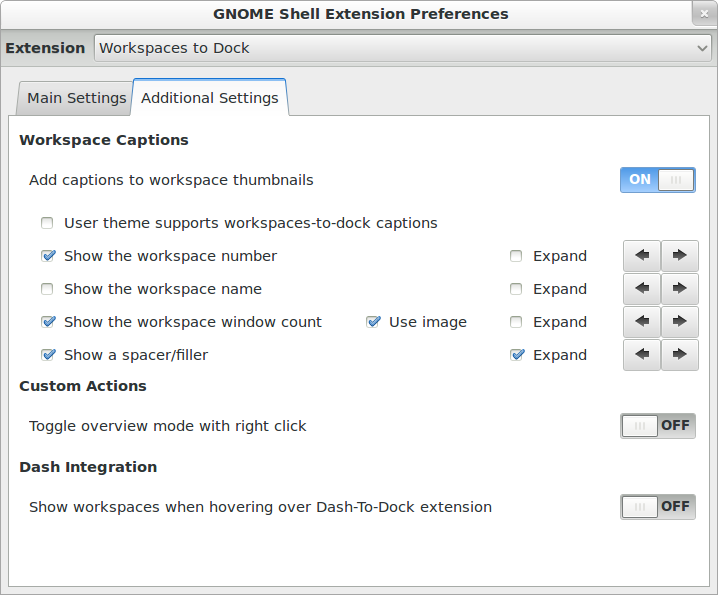
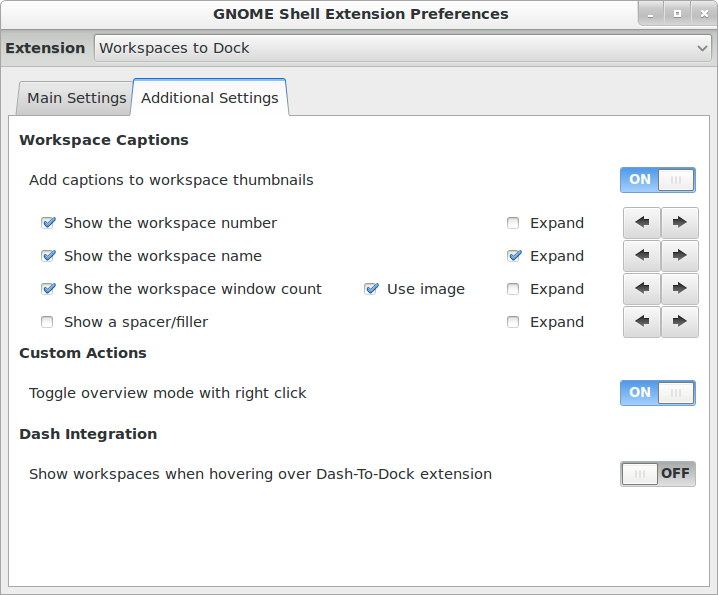
Added detection of theme support; Renamed captions folder to themes; Remove manual selection for theme support.

diff --git a/dockedWorkspaces.js b/dockedWorkspaces.js
@@ -250,7 +250,7 @@ dockedWorkspaces.prototype = {
         // Now that the dock is on the stage and custom themes are loaded
         // retrieve background color and set background opacity and load workspace caption css
         this._updateBackgroundOpacity();
-        this._onThemeSupportChanged();
+        this._loadWorkspacesToDockStylesheet();
 
         // Not really required because thumbnailsBox width signal will trigger a redisplay
         // Also found GS3.6 crashes returning from lock screen (Ubuntu GS Remix)
@@ -488,11 +488,6 @@ dockedWorkspaces.prototype = {
             this._thumbnailsBox.hide();
             this._thumbnailsBox.show();
         }));
-        
-        this._settings.connect('changed::workspace-captions-support', Lang.bind(this, function() {
-            this._onThemeSupportChanged();
-        }));
-
     },
 
     // handler for mouse hover events
@@ -833,33 +828,96 @@ dockedWorkspaces.prototype = {
         }
     },
 
-    // handler for workspace captions theme support changes
-    _onThemeSupportChanged: function() {
-        if (_DEBUG_) global.log("dockedWorkspaces: _onThemeSupportChanged");
-        let cssPath = GLib.build_filenamev([Me.path, 'captions', 'default', 'workspace-captions.css']);
-        if (!GLib.file_test(cssPath, GLib.FileTest.EXISTS)) {
+    _loadWorkspacesToDockStylesheet: function() {
+        if (_DEBUG_) global.log("dockedWorkspaces: _loadWorkspacesToDockStylesheet");
+        // Get css stylesheet for current theme
+        // Main._defaultCssStylesheet = GLib.get_home_dir() + '/.themes/' + _themeName + '/gnome-shell/gnome-shell.css';
+        let cssStylesheet = Main._defaultCssStylesheet;
+        if (Main._cssStylesheet != null)
+            cssStylesheet = Main._cssStylesheet;
+
+        // Get theme directory
+        let cssDirectory = GLib.path_get_dirname(cssStylesheet);
+        
+        // Test for workspaces-to-dock stylesheet
+        let workspacesToDockStylesheet = cssDirectory + '/extensions/workspaces-to-dock.css';
+        if (GLib.file_test(workspacesToDockStylesheet, GLib.FileTest.EXISTS)) {
+            if (_DEBUG_) global.log("Theme supports workspaces-to-dock. Unload workspaces-to-dock.css if previously loaded");
+            this._unloadWorkspacesToDockStylesheet();
+        } else {
+            // Load workspaces-to-dock stylesheet from extension /themes
+            let themeSelected = "default";
+            let workspacesToDockExtStylesheet = GLib.build_filenamev([Me.path, 'themes', themeSelected, 'workspaces-to-dock.css']);
+            if (!GLib.file_test(workspacesToDockExtStylesheet, GLib.FileTest.EXISTS)) {
+                return;
+            }
+            if (_DEBUG_) global.log("Theme does not support workspaces-to-dock. Load extension /themes stylesheet");
+            let themeContext = St.ThemeContext.get_for_stage(global.stage);
+            if (themeContext) {
+                let theme = themeContext.get_theme();
+                let customStylesheets = theme.get_custom_stylesheets();
+                // Check if stylesheet already loaded
+                let found = false;
+                for (let i = 0; i < customStylesheets.length; i++) {
+                    if (customStylesheets[i] == workspacesToDockExtStylesheet) {
+                        found = true;
+                        break;
+                    }
+                }
+                if (!found) {
+                    theme.load_stylesheet(workspacesToDockExtStylesheet);
+                }
+            }
+        }
+    },
+    
+    _unloadWorkspacesToDockStylesheet: function() {
+        if (_DEBUG_) global.log("dockedWorkspaces: _unloadWorkspacesToDockStylesheet");
+        let themeSelected = "default";
+        let workspacesToDockExtStylesheet = GLib.build_filenamev([Me.path, 'themes', themeSelected, 'workspaces-to-dock.css']);
+        if (!GLib.file_test(workspacesToDockExtStylesheet, GLib.FileTest.EXISTS)) {
             return;
         }
-
         let themeContext = St.ThemeContext.get_for_stage(global.stage);
-        let currentTheme = themeContext.get_theme();
+        if (themeContext) {
+            let theme = themeContext.get_theme();
+            let customStylesheets = theme.get_custom_stylesheets();
+            // Check if stylesheet already loaded
+            let found = false;
+            for (let i = 0; i < customStylesheets.length; i++) {
+                if (customStylesheets[i] == workspacesToDockExtStylesheet) {
+                    found = true;
+                    break;
+                }
+            }
+            if (found) {
+                // theme.unload_stylesheet(workspacesToDockExtStylesheet);
+                // ISSUE: just trying to unload stylesheet crashes GS36 when returning from lock screen
+                // WORKAROUND:
+                let cssStylesheet = Main._defaultCssStylesheet;
+                if (Main._cssStylesheet != null)
+                    cssStylesheet = Main._cssStylesheet;
 
-        if (this._settings.get_boolean('workspace-captions-support')) {
-            // unload workspace captions css
-            currentTheme.unload_stylesheet(cssPath);
-        } else {
-            // load workspace captions css
-            currentTheme.load_stylesheet(cssPath);
+                let newTheme = new St.Theme ({ application_stylesheet: cssStylesheet });
+                for (let i = 0; i < customStylesheets.length; i++) {
+                    if (customStylesheets[i] != workspacesToDockExtStylesheet) {
+                        newTheme.load_stylesheet(customStylesheets[i]);
+                    }
+                }
+
+                themeContext.set_theme (newTheme);
+            }
         }
-
-        this._thumbnailsBox.hide();
-        this._thumbnailsBox.show();
     },
     
     // handler for theme changes
     _onThemeChanged: function() {
         if (_DEBUG_) global.log("dockedWorkspaces: _onThemeChanged");
         this._updateBackgroundOpacity();
+
+        this._loadWorkspacesToDockStylesheet();
+        this._thumbnailsBox.hide();
+        this._thumbnailsBox.show();
     },
     
     // resdiplay dock called if size-position changed due to dock resizing

diff --git a/prefs.js b/prefs.js
@@ -477,16 +477,6 @@ const WorkspacesToDockPreferencesWidget = new GObject.Class({
             margin_right: 10
         });
 
-        // Workspace Captions - User Theme Support
-        let wsCaptionThemeSupport =  new Gtk.CheckButton({
-            label: "User theme supports workspaces-to-dock captions",
-            hexpand: true
-        });
-        wsCaptionThemeSupport.set_active(this.settings.get_boolean('workspace-captions-support'));
-        wsCaptionThemeSupport.connect('toggled', Lang.bind(this, function(check){
-            this.settings.set_boolean('workspace-captions-support', check.get_active());
-        }));
-
         // Workspace Captions - Number
         let workspaceCaptionNumber = new Gtk.Box({
             spacing: 20,
@@ -690,33 +680,30 @@ const WorkspacesToDockPreferencesWidget = new GObject.Class({
 
         this.settings.bind('workspace-captions', workspaceCaptionsGrid, 'sensitive', Gio.SettingsBindFlags.DEFAULT);
 
-        workspaceCaptionsGrid.attach(wsCaptionThemeSupport, 0, 1, 2, 1);        
-
-        workspaceCaptionsGrid.attach(wsCaptionNumber, 0, 2, 1, 1);
-        workspaceCaptionsGrid.attach(wsCaptionNumberExpand, 2, 2, 1, 1);
-        workspaceCaptionsGrid.attach(wsCaptionNumber_MoveLeftButton, 3, 2, 1, 1);
-        workspaceCaptionsGrid.attach(wsCaptionNumber_MoveRightButton, 4, 2, 1, 1);
+        workspaceCaptionsGrid.attach(wsCaptionNumber, 0, 1, 1, 1);
+        workspaceCaptionsGrid.attach(wsCaptionNumberExpand, 2, 1, 1, 1);
+        workspaceCaptionsGrid.attach(wsCaptionNumber_MoveLeftButton, 3, 1, 1, 1);
+        workspaceCaptionsGrid.attach(wsCaptionNumber_MoveRightButton, 4, 1, 1, 1);
         
-        workspaceCaptionsGrid.attach(wsCaptionName, 0, 3, 1, 1);
-        workspaceCaptionsGrid.attach(wsCaptionNameExpand, 2, 3, 1, 1);
-        workspaceCaptionsGrid.attach(wsCaptionName_MoveLeftButton, 3, 3, 1, 1);
-        workspaceCaptionsGrid.attach(wsCaptionName_MoveRightButton, 4, 3, 1, 1);
+        workspaceCaptionsGrid.attach(wsCaptionName, 0, 2, 1, 1);
+        workspaceCaptionsGrid.attach(wsCaptionNameExpand, 2, 2, 1, 1);
+        workspaceCaptionsGrid.attach(wsCaptionName_MoveLeftButton, 3, 2, 1, 1);
+        workspaceCaptionsGrid.attach(wsCaptionName_MoveRightButton, 4, 2, 1, 1);
         
-        workspaceCaptionsGrid.attach(wsCaptionWindowCount, 0, 4, 1, 1);
-        workspaceCaptionsGrid.attach(wsCaptionWindowCountUseImage, 1, 4, 1, 1);
-        workspaceCaptionsGrid.attach(wsCaptionWindowCountExpand, 2, 4, 1, 1);
-        workspaceCaptionsGrid.attach(wsCaptionWindowCount_MoveLeftButton, 3, 4, 1, 1);
-        workspaceCaptionsGrid.attach(wsCaptionWindowCount_MoveRightButton, 4, 4, 1, 1);
+        workspaceCaptionsGrid.attach(wsCaptionWindowCount, 0, 3, 1, 1);
+        workspaceCaptionsGrid.attach(wsCaptionWindowCountUseImage, 1, 3, 1, 1);
+        workspaceCaptionsGrid.attach(wsCaptionWindowCountExpand, 2, 3, 1, 1);
+        workspaceCaptionsGrid.attach(wsCaptionWindowCount_MoveLeftButton, 3, 3, 1, 1);
+        workspaceCaptionsGrid.attach(wsCaptionWindowCount_MoveRightButton, 4, 3, 1, 1);
         
-        workspaceCaptionsGrid.attach(wsCaptionSpacer, 0, 5, 1, 1);
-        workspaceCaptionsGrid.attach(wsCaptionSpacerExpand, 2, 5, 1, 1);
-        workspaceCaptionsGrid.attach(wsCaptionSpacer_MoveLeftButton, 3, 5, 1, 1);
-        workspaceCaptionsGrid.attach(wsCaptionSpacer_MoveRightButton, 4, 5, 1, 1);
+        workspaceCaptionsGrid.attach(wsCaptionSpacer, 0, 4, 1, 1);
+        workspaceCaptionsGrid.attach(wsCaptionSpacerExpand, 2, 4, 1, 1);
+        workspaceCaptionsGrid.attach(wsCaptionSpacer_MoveLeftButton, 3, 4, 1, 1);
+        workspaceCaptionsGrid.attach(wsCaptionSpacer_MoveRightButton, 4, 4, 1, 1);
 
         
         workspaceCaptions.add(workspaceCaptionsTitle);
         workspaceCaptions.add(workspaceCaptionsControl);
-        workspaceCaptions.add(wsCaptionThemeSupport);
         workspaceCaptions.add(workspaceCaptionsGrid);
         notebookAdditionalSettings.add(workspaceCaptions);
         

diff --git a/README.md b/README.md
@@ -70,9 +70,7 @@ Additional Settings:
 
 	**Add captions to workspace thumbnails** - Adds captions to the workspace thumbnails.
 
-	**User theme supports workspaces-to-dock captions** - When enabled, user themes that support workspaces-to-dock captions will be used to style the captions.
-
-	**NOTE: Unfortunately, there is no built-in detection for when a theme supports workspaces-to-dock captions. Therefore, if this option is enabled, the default style will be disabled. We hope to provide auto-detection in a future release.**
+	**NOTE: Version 9 auto detects when a theme supports workspaces-to-dock. Theme writers should place the 'workspaces-to-dock.css' stylesheet in ./themes/<usertheme>/gnome-shell/extensions/ folder and use the @import directive in 'gnome-shell.css' to incorporate the stylesheet. If no theme support is detected, the extension's default theme will be used.**
 
 	**Show the workspace number** - When enabled, the workspace number is shown in the caption. It can be expanded to take up available space or its position can be adjusted using the arrow buttons.
 
